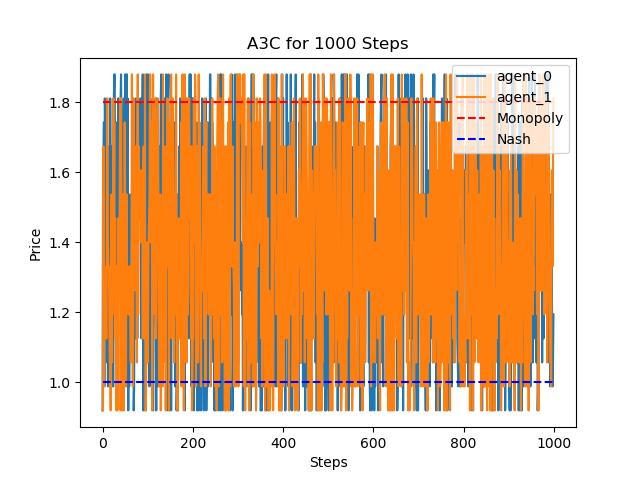
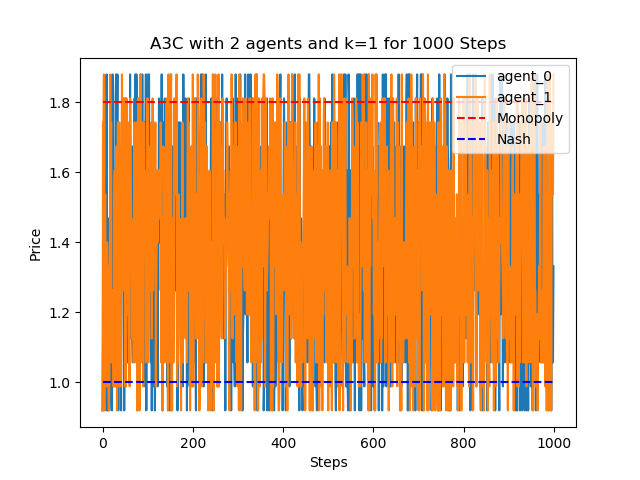
auto

Changed region(s): [[0.1562, 0.0625, 0.875, 0.875]]

diff --git a/gym_bertrandcompetition/envs/bertrand_competition_discrete.py b/gym_bertrandcompetition/envs/bertrand_competition_discrete.py
@@ -126,7 +126,7 @@ class BertrandCompetitionDiscreteEnv(MultiAgentEnv):
             plt.plot(x, np.repeat(self.pN, n), 'b--', label='Nash')
             plt.xlabel('Steps')
             plt.ylabel('Price')
-            plt.title(self.trainer_choice + ' for ' + str(self.epochs * self.max_steps) + ' Steps')
+            plt.title(self.trainer_choice + ' with ' + str(self.num_agents) + ' agents and k=' + str(self.k) + ' for ' + str(self.epochs * self.max_steps) + ' Steps')
             plt.legend(loc='upper right')
             plt.savefig('action_history')
 
